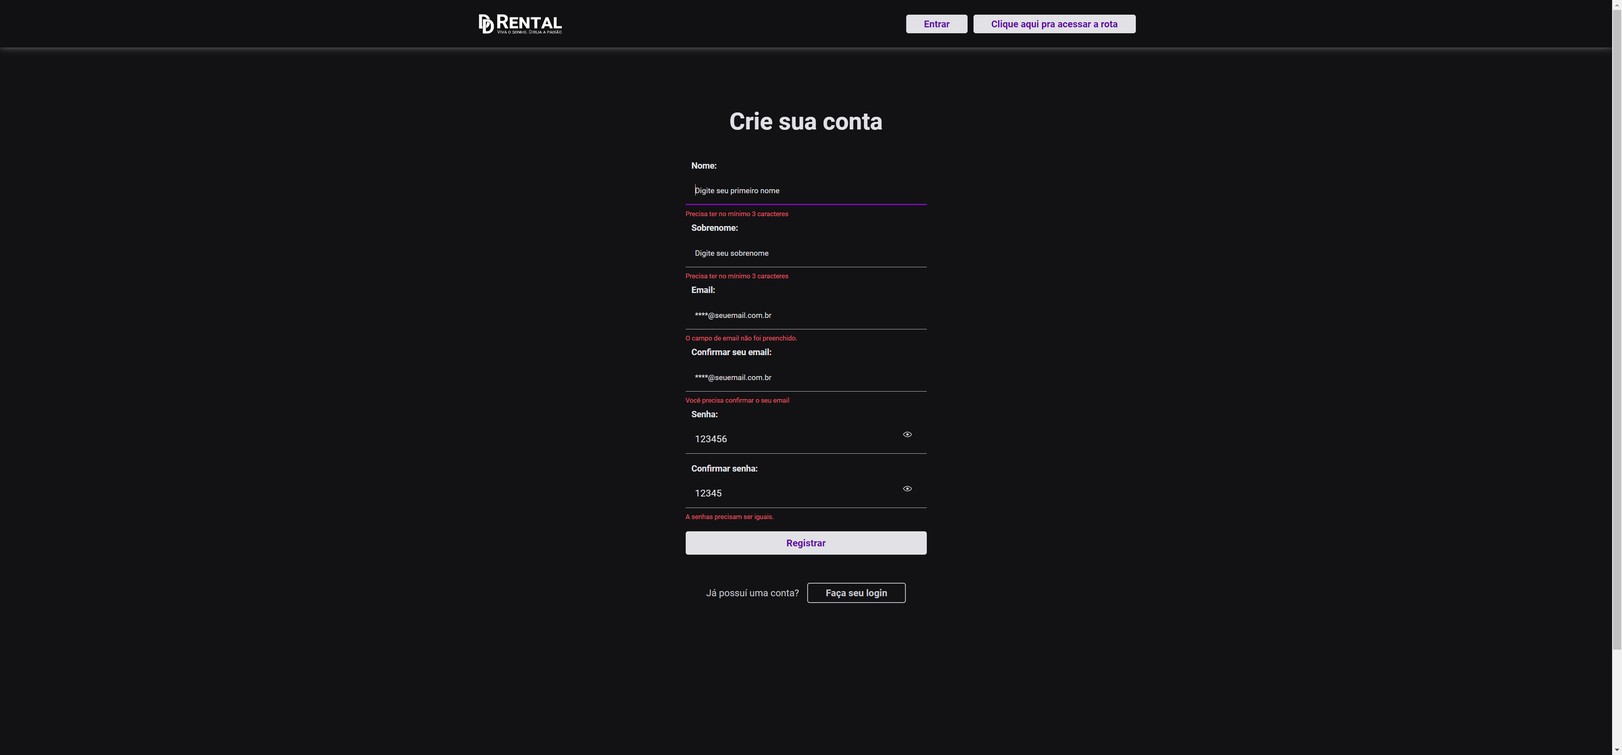
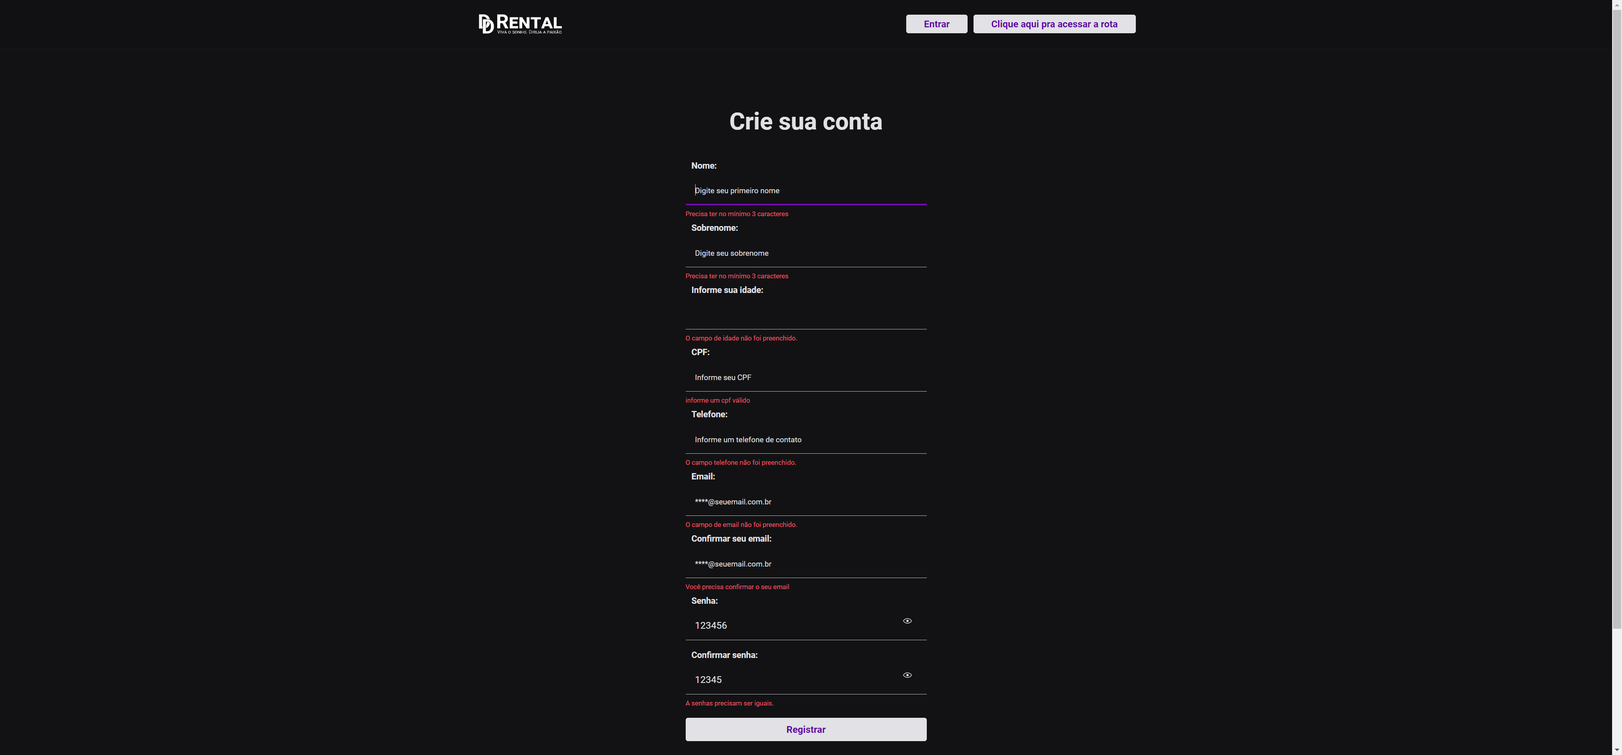
feature: testes reavaliados (regressão) devido a novos campos em algumas telas

diff --git a/report.html b/report.html
@@ -7,7 +7,7 @@
   </head>
   <body>
     <h1 id="title">report.html</h1>
-    <p>Report generated on 06-Dec-2023 at 12:28:50 by <a href="https://pypi.python.org/pypi/pytest-html">pytest-html</a>
+    <p>Report generated on 10-Dec-2023 at 22:03:54 by <a href="https://pypi.python.org/pypi/pytest-html">pytest-html</a>
         v4.1.1</p>
     <div id="environment-header">
       <h2>Environment</h2>
@@ -61,7 +61,7 @@
         <h2>Summary</h2>
         <div class="additional-summary prefix">
         </div>
-        <p class="run-count">4 tests took 00:00:13.</p>
+        <p class="run-count">17 tests took 00:01:35.</p>
         <p class="filter">(Un)check the boxes to filter the results.</p>
         <div class="summary__reload">
           <div class="summary__reload__button hidden" onclick="location.reload()">
@@ -74,7 +74,7 @@
             <input checked="true" class="filter" name="filter_checkbox" type="checkbox" data-test-result="failed" disabled/>
             <span class="failed">0 Failed,</span>
             <input checked="true" class="filter" name="filter_checkbox" type="checkbox" data-test-result="passed" />
-            <span class="passed">4 Passed,</span>
+            <span class="passed">17 Passed,</span>
             <input checked="true" class="filter" name="filter_checkbox" type="checkbox" data-test-result="skipped" disabled/>
             <span class="skipped">0 Skipped,</span>
             <input checked="true" class="filter" name="filter_checkbox" type="checkbox" data-test-result="xfailed" disabled/>
@@ -108,7 +108,7 @@
     </table>
   </body>
   <footer>
-    <div id="data-container" data-jsonblob="{&#34;environment&#34;: {&#34;Python&#34;: &#34;3.11.4&#34;, &#34;Platform&#34;: &#34;Windows-10-10.0.19045-SP0&#34;, &#34;Packages&#34;: {&#34;pytest&#34;: &#34;7.4.3&#34;, &#34;pluggy&#34;: &#34;1.3.0&#34;}, &#34;Plugins&#34;: {&#34;html&#34;: &#34;4.1.1&#34;, &#34;metadata&#34;: &#34;3.0.0&#34;}}, &#34;tests&#34;: {&#34;site/tests/test_navbar.py::TestNavBar::test_NavBar_Logo&#34;: [{&#34;extras&#34;: [], &#34;result&#34;: &#34;Passed&#34;, &#34;testId&#34;: &#34;site/tests/test_navbar.py::TestNavBar::test_NavBar_Logo&#34;, &#34;duration&#34;: &#34;00:00:01&#34;, &#34;resultsTableRow&#34;: [&#34;&lt;td class=\&#34;col-result\&#34;&gt;Passed&lt;/td&gt;&#34;, &#34;&lt;td class=\&#34;col-testId\&#34;&gt;site/tests/test_navbar.py::TestNavBar::test_NavBar_Logo&lt;/td&gt;&#34;, &#34;&lt;td class=\&#34;col-duration\&#34;&gt;00:00:01&lt;/td&gt;&#34;, &#34;&lt;td class=\&#34;col-links\&#34;&gt;&lt;/td&gt;&#34;], &#34;log&#34;: &#34;----------------------------- Captured stdout call -----------------------------\nTipo de objeto: image\nCaminho da imagem:  http://localhost:5173/src/assets/DDRental.png\n&#34;}], &#34;site/tests/test_navbar.py::TestNavBar::test_NavBar_Btn_signup&#34;: [{&#34;extras&#34;: [], &#34;result&#34;: &#34;Passed&#34;, &#34;testId&#34;: &#34;site/tests/test_navbar.py::TestNavBar::test_NavBar_Btn_signup&#34;, &#34;duration&#34;: &#34;00:00:04&#34;, &#34;resultsTableRow&#34;: [&#34;&lt;td class=\&#34;col-result\&#34;&gt;Passed&lt;/td&gt;&#34;, &#34;&lt;td class=\&#34;col-testId\&#34;&gt;site/tests/test_navbar.py::TestNavBar::test_NavBar_Btn_signup&lt;/td&gt;&#34;, &#34;&lt;td class=\&#34;col-duration\&#34;&gt;00:00:04&lt;/td&gt;&#34;, &#34;&lt;td class=\&#34;col-links\&#34;&gt;&lt;/td&gt;&#34;], &#34;log&#34;: &#34;----------------------------- Captured stdout call -----------------------------\nDestino esperado: http://localhost:5173/signup\nDestino encontrado: http://localhost:5173/signup\n&#34;}], &#34;site/tests/test_navbar.py::TestNavBar::test_NavBar_Btn_signin&#34;: [{&#34;extras&#34;: [], &#34;result&#34;: &#34;Passed&#34;, &#34;testId&#34;: &#34;site/tests/test_navbar.py::TestNavBar::test_NavBar_Btn_signin&#34;, &#34;duration&#34;: &#34;00:00:04&#34;, &#34;resultsTableRow&#34;: [&#34;&lt;td class=\&#34;col-result\&#34;&gt;Passed&lt;/td&gt;&#34;, &#34;&lt;td class=\&#34;col-testId\&#34;&gt;site/tests/test_navbar.py::TestNavBar::test_NavBar_Btn_signin&lt;/td&gt;&#34;, &#34;&lt;td class=\&#34;col-duration\&#34;&gt;00:00:04&lt;/td&gt;&#34;, &#34;&lt;td class=\&#34;col-links\&#34;&gt;&lt;/td&gt;&#34;], &#34;log&#34;: &#34;----------------------------- Captured stdout call -----------------------------\nDestino esperado: http://localhost:5173/signin\nDestino encontrado: http://localhost:5173/signin\n&#34;}], &#34;site/tests/test_navbar.py::TestNavBar::test_NavBarBtnAcessRoute&#34;: [{&#34;extras&#34;: [], &#34;result&#34;: &#34;Passed&#34;, &#34;testId&#34;: &#34;site/tests/test_navbar.py::TestNavBar::test_NavBarBtnAcessRoute&#34;, &#34;duration&#34;: &#34;00:00:04&#34;, &#34;resultsTableRow&#34;: [&#34;&lt;td class=\&#34;col-result\&#34;&gt;Passed&lt;/td&gt;&#34;, &#34;&lt;td class=\&#34;col-testId\&#34;&gt;site/tests/test_navbar.py::TestNavBar::test_NavBarBtnAcessRoute&lt;/td&gt;&#34;, &#34;&lt;td class=\&#34;col-duration\&#34;&gt;00:00:04&lt;/td&gt;&#34;, &#34;&lt;td class=\&#34;col-links\&#34;&gt;&lt;/td&gt;&#34;], &#34;log&#34;: &#34;----------------------------- Captured stdout call -----------------------------\nNome do bot\u00e3o: Clique aqui pra acessar a rota\nDestino esperado: http://localhost:5173/produto/123123\nDestino encontrado: http://localhost:5173/produto/123123\n&#34;}]}, &#34;renderCollapsed&#34;: [&#34;passed&#34;], &#34;initialSort&#34;: &#34;result&#34;, &#34;title&#34;: &#34;report.html&#34;}"></div>
+    <div id="data-container" data-jsonblob="{&#34;environment&#34;: {&#34;Python&#34;: &#34;3.11.4&#34;, &#34;Platform&#34;: &#34;Windows-10-10.0.22631-SP0&#34;, &#34;Packages&#34;: {&#34;pytest&#34;: &#34;7.4.3&#34;, &#34;pluggy&#34;: &#34;1.3.0&#34;}, &#34;Plugins&#34;: {&#34;html&#34;: &#34;4.1.1&#34;, &#34;metadata&#34;: &#34;3.0.0&#34;}}, &#34;tests&#34;: {&#34;site/tests/test_footer.py::TestFooter_Copyright::test_footerCopyRightText&#34;: [{&#34;extras&#34;: [], &#34;result&#34;: &#34;Passed&#34;, &#34;testId&#34;: &#34;site/tests/test_footer.py::TestFooter_Copyright::test_footerCopyRightText&#34;, &#34;duration&#34;: &#34;782 ms&#34;, &#34;resultsTableRow&#34;: [&#34;&lt;td class=\&#34;col-result\&#34;&gt;Passed&lt;/td&gt;&#34;, &#34;&lt;td class=\&#34;col-testId\&#34;&gt;site/tests/test_footer.py::TestFooter_Copyright::test_footerCopyRightText&lt;/td&gt;&#34;, &#34;&lt;td class=\&#34;col-duration\&#34;&gt;782 ms&lt;/td&gt;&#34;, &#34;&lt;td class=\&#34;col-links\&#34;&gt;&lt;/td&gt;&#34;], &#34;log&#34;: &#34;----------------------------- Captured stdout call -----------------------------\nEsperado: \u00a92023 Direitos reservados dhrentcar.com.br\nEncontrado: \u00a92023 Direitos reservados dhrentcar.com.br\n&#34;}], &#34;site/tests/test_footer.py::TestFooterSocialMedia::test_footerSocialMedia_Facebook&#34;: [{&#34;extras&#34;: [], &#34;result&#34;: &#34;Passed&#34;, &#34;testId&#34;: &#34;site/tests/test_footer.py::TestFooterSocialMedia::test_footerSocialMedia_Facebook&#34;, &#34;duration&#34;: &#34;00:00:03&#34;, &#34;resultsTableRow&#34;: [&#34;&lt;td class=\&#34;col-result\&#34;&gt;Passed&lt;/td&gt;&#34;, &#34;&lt;td class=\&#34;col-testId\&#34;&gt;site/tests/test_footer.py::TestFooterSocialMedia::test_footerSocialMedia_Facebook&lt;/td&gt;&#34;, &#34;&lt;td class=\&#34;col-duration\&#34;&gt;00:00:03&lt;/td&gt;&#34;, &#34;&lt;td class=\&#34;col-links\&#34;&gt;&lt;/td&gt;&#34;], &#34;log&#34;: &#34;----------------------------- Captured stdout call -----------------------------\nVerifique o screenshot &amp;#x27;screen_Facebook_Btn_Click.png&amp;#x27;\n&#34;}], &#34;site/tests/test_footer.py::TestFooterSocialMedia::test_footerSocialMedia_Linkedin&#34;: [{&#34;extras&#34;: [], &#34;result&#34;: &#34;Passed&#34;, &#34;testId&#34;: &#34;site/tests/test_footer.py::TestFooterSocialMedia::test_footerSocialMedia_Linkedin&#34;, &#34;duration&#34;: &#34;00:00:04&#34;, &#34;resultsTableRow&#34;: [&#34;&lt;td class=\&#34;col-result\&#34;&gt;Passed&lt;/td&gt;&#34;, &#34;&lt;td class=\&#34;col-testId\&#34;&gt;site/tests/test_footer.py::TestFooterSocialMedia::test_footerSocialMedia_Linkedin&lt;/td&gt;&#34;, &#34;&lt;td class=\&#34;col-duration\&#34;&gt;00:00:04&lt;/td&gt;&#34;, &#34;&lt;td class=\&#34;col-links\&#34;&gt;&lt;/td&gt;&#34;], &#34;log&#34;: &#34;----------------------------- Captured stdout call -----------------------------\nVerifique o screenshot &amp;#x27;screen_Linkedin_Btn_Click.png&amp;#x27;\n&#34;}], &#34;site/tests/test_footer.py::TestFooterSocialMedia::test_footerSocialMedia_Instagram&#34;: [{&#34;extras&#34;: [], &#34;result&#34;: &#34;Passed&#34;, &#34;testId&#34;: &#34;site/tests/test_footer.py::TestFooterSocialMedia::test_footerSocialMedia_Instagram&#34;, &#34;duration&#34;: &#34;00:00:04&#34;, &#34;resultsTableRow&#34;: [&#34;&lt;td class=\&#34;col-result\&#34;&gt;Passed&lt;/td&gt;&#34;, &#34;&lt;td class=\&#34;col-testId\&#34;&gt;site/tests/test_footer.py::TestFooterSocialMedia::test_footerSocialMedia_Instagram&lt;/td&gt;&#34;, &#34;&lt;td class=\&#34;col-duration\&#34;&gt;00:00:04&lt;/td&gt;&#34;, &#34;&lt;td class=\&#34;col-links\&#34;&gt;&lt;/td&gt;&#34;], &#34;log&#34;: &#34;----------------------------- Captured stdout call -----------------------------\nVerifique o screenshot &amp;#x27;screen_Instagram_Btn_Click.png&amp;#x27;\n&#34;}], &#34;site/tests/test_footer.py::TestFooterSocialMedia::test_footerSocialMedia_Twitter&#34;: [{&#34;extras&#34;: [], &#34;result&#34;: &#34;Passed&#34;, &#34;testId&#34;: &#34;site/tests/test_footer.py::TestFooterSocialMedia::test_footerSocialMedia_Twitter&#34;, &#34;duration&#34;: &#34;00:00:03&#34;, &#34;resultsTableRow&#34;: [&#34;&lt;td class=\&#34;col-result\&#34;&gt;Passed&lt;/td&gt;&#34;, &#34;&lt;td class=\&#34;col-testId\&#34;&gt;site/tests/test_footer.py::TestFooterSocialMedia::test_footerSocialMedia_Twitter&lt;/td&gt;&#34;, &#34;&lt;td class=\&#34;col-duration\&#34;&gt;00:00:03&lt;/td&gt;&#34;, &#34;&lt;td class=\&#34;col-links\&#34;&gt;&lt;/td&gt;&#34;], &#34;log&#34;: &#34;----------------------------- Captured stdout call -----------------------------\nVerifique o screenshot &amp;#x27;screen_Twitter_Btn_Click.png&amp;#x27;\n&#34;}], &#34;site/tests/test_login.py::TestLogin::test_login_button_view_password&#34;: [{&#34;extras&#34;: [], &#34;result&#34;: &#34;Passed&#34;, &#34;testId&#34;: &#34;site/tests/test_login.py::TestLogin::test_login_button_view_password&#34;, &#34;duration&#34;: &#34;00:00:04&#34;, &#34;resultsTableRow&#34;: [&#34;&lt;td class=\&#34;col-result\&#34;&gt;Passed&lt;/td&gt;&#34;, &#34;&lt;td class=\&#34;col-testId\&#34;&gt;site/tests/test_login.py::TestLogin::test_login_button_view_password&lt;/td&gt;&#34;, &#34;&lt;td class=\&#34;col-duration\&#34;&gt;00:00:04&lt;/td&gt;&#34;, &#34;&lt;td class=\&#34;col-links\&#34;&gt;&lt;/td&gt;&#34;], &#34;log&#34;: &#34;----------------------------- Captured stdout call -----------------------------\nVerifique o screenshot &amp;#x27;screen_view_password.png&amp;#x27;\n&#34;}], &#34;site/tests/test_login.py::TestLogin::test_login_success&#34;: [{&#34;extras&#34;: [], &#34;result&#34;: &#34;Passed&#34;, &#34;testId&#34;: &#34;site/tests/test_login.py::TestLogin::test_login_success&#34;, &#34;duration&#34;: &#34;00:00:07&#34;, &#34;resultsTableRow&#34;: [&#34;&lt;td class=\&#34;col-result\&#34;&gt;Passed&lt;/td&gt;&#34;, &#34;&lt;td class=\&#34;col-testId\&#34;&gt;site/tests/test_login.py::TestLogin::test_login_success&lt;/td&gt;&#34;, &#34;&lt;td class=\&#34;col-duration\&#34;&gt;00:00:07&lt;/td&gt;&#34;, &#34;&lt;td class=\&#34;col-links\&#34;&gt;&lt;/td&gt;&#34;], &#34;log&#34;: &#34;----------------------------- Captured stdout call -----------------------------\npagina atual : http://localhost:5173/signin\ntitulo do formul\u00e1rio : Inicie sua sess\u00e3o\nBot\u00e3o Cadastre-se : Cadastre-se\n&#34;}], &#34;site/tests/test_login.py::TestLogin::test_login_fail_invalid_email&#34;: [{&#34;extras&#34;: [], &#34;result&#34;: &#34;Passed&#34;, &#34;testId&#34;: &#34;site/tests/test_login.py::TestLogin::test_login_fail_invalid_email&#34;, &#34;duration&#34;: &#34;00:00:07&#34;, &#34;resultsTableRow&#34;: [&#34;&lt;td class=\&#34;col-result\&#34;&gt;Passed&lt;/td&gt;&#34;, &#34;&lt;td class=\&#34;col-testId\&#34;&gt;site/tests/test_login.py::TestLogin::test_login_fail_invalid_email&lt;/td&gt;&#34;, &#34;&lt;td class=\&#34;col-duration\&#34;&gt;00:00:07&lt;/td&gt;&#34;, &#34;&lt;td class=\&#34;col-links\&#34;&gt;&lt;/td&gt;&#34;], &#34;log&#34;: &#34;----------------------------- Captured stdout call -----------------------------\nEmail invalido digitado: \u00c9 necess\u00e1rio um email v\u00e1lido\n&#34;}], &#34;site/tests/test_login.py::TestLogin::test_login_fail_blank_email&#34;: [{&#34;extras&#34;: [], &#34;result&#34;: &#34;Passed&#34;, &#34;testId&#34;: &#34;site/tests/test_login.py::TestLogin::test_login_fail_blank_email&#34;, &#34;duration&#34;: &#34;00:00:07&#34;, &#34;resultsTableRow&#34;: [&#34;&lt;td class=\&#34;col-result\&#34;&gt;Passed&lt;/td&gt;&#34;, &#34;&lt;td class=\&#34;col-testId\&#34;&gt;site/tests/test_login.py::TestLogin::test_login_fail_blank_email&lt;/td&gt;&#34;, &#34;&lt;td class=\&#34;col-duration\&#34;&gt;00:00:07&lt;/td&gt;&#34;, &#34;&lt;td class=\&#34;col-links\&#34;&gt;&lt;/td&gt;&#34;], &#34;log&#34;: &#34;----------------------------- Captured stdout call -----------------------------\nCampo Email em branco: O campo de email n\u00e3o foi preenchido.\n&#34;}], &#34;site/tests/test_login.py::TestLogin::test_login_fail_invalid_password&#34;: [{&#34;extras&#34;: [], &#34;result&#34;: &#34;Passed&#34;, &#34;testId&#34;: &#34;site/tests/test_login.py::TestLogin::test_login_fail_invalid_password&#34;, &#34;duration&#34;: &#34;00:00:08&#34;, &#34;resultsTableRow&#34;: [&#34;&lt;td class=\&#34;col-result\&#34;&gt;Passed&lt;/td&gt;&#34;, &#34;&lt;td class=\&#34;col-testId\&#34;&gt;site/tests/test_login.py::TestLogin::test_login_fail_invalid_password&lt;/td&gt;&#34;, &#34;&lt;td class=\&#34;col-duration\&#34;&gt;00:00:08&lt;/td&gt;&#34;, &#34;&lt;td class=\&#34;col-links\&#34;&gt;&lt;/td&gt;&#34;], &#34;log&#34;: &#34;----------------------------- Captured stdout call -----------------------------\nPassword inv\u00e1lido: A senha deve conter no m\u00ednimo 6 caracteres.\nSenha digitada: 12345\n&#34;}], &#34;site/tests/test_navbar.py::TestNavBar::test_NavBar_Logo&#34;: [{&#34;extras&#34;: [], &#34;result&#34;: &#34;Passed&#34;, &#34;testId&#34;: &#34;site/tests/test_navbar.py::TestNavBar::test_NavBar_Logo&#34;, &#34;duration&#34;: &#34;426 ms&#34;, &#34;resultsTableRow&#34;: [&#34;&lt;td class=\&#34;col-result\&#34;&gt;Passed&lt;/td&gt;&#34;, &#34;&lt;td class=\&#34;col-testId\&#34;&gt;site/tests/test_navbar.py::TestNavBar::test_NavBar_Logo&lt;/td&gt;&#34;, &#34;&lt;td class=\&#34;col-duration\&#34;&gt;426 ms&lt;/td&gt;&#34;, &#34;&lt;td class=\&#34;col-links\&#34;&gt;&lt;/td&gt;&#34;], &#34;log&#34;: &#34;----------------------------- Captured stdout call -----------------------------\nTipo de objeto: image\nCaminho da imagem:  http://localhost:5173/src/assets/DDRental.png\n&#34;}], &#34;site/tests/test_navbar.py::TestNavBar::test_NavBar_Btn_signup&#34;: [{&#34;extras&#34;: [], &#34;result&#34;: &#34;Passed&#34;, &#34;testId&#34;: &#34;site/tests/test_navbar.py::TestNavBar::test_NavBar_Btn_signup&#34;, &#34;duration&#34;: &#34;00:00:03&#34;, &#34;resultsTableRow&#34;: [&#34;&lt;td class=\&#34;col-result\&#34;&gt;Passed&lt;/td&gt;&#34;, &#34;&lt;td class=\&#34;col-testId\&#34;&gt;site/tests/test_navbar.py::TestNavBar::test_NavBar_Btn_signup&lt;/td&gt;&#34;, &#34;&lt;td class=\&#34;col-duration\&#34;&gt;00:00:03&lt;/td&gt;&#34;, &#34;&lt;td class=\&#34;col-links\&#34;&gt;&lt;/td&gt;&#34;], &#34;log&#34;: &#34;----------------------------- Captured stdout call -----------------------------\nDestino esperado: http://localhost:5173/signup\nDestino encontrado: http://localhost:5173/signup\n&#34;}], &#34;site/tests/test_navbar.py::TestNavBar::test_NavBar_Btn_signin&#34;: [{&#34;extras&#34;: [], &#34;result&#34;: &#34;Passed&#34;, &#34;testId&#34;: &#34;site/tests/test_navbar.py::TestNavBar::test_NavBar_Btn_signin&#34;, &#34;duration&#34;: &#34;00:00:03&#34;, &#34;resultsTableRow&#34;: [&#34;&lt;td class=\&#34;col-result\&#34;&gt;Passed&lt;/td&gt;&#34;, &#34;&lt;td class=\&#34;col-testId\&#34;&gt;site/tests/test_navbar.py::TestNavBar::test_NavBar_Btn_signin&lt;/td&gt;&#34;, &#34;&lt;td class=\&#34;col-duration\&#34;&gt;00:00:03&lt;/td&gt;&#34;, &#34;&lt;td class=\&#34;col-links\&#34;&gt;&lt;/td&gt;&#34;], &#34;log&#34;: &#34;----------------------------- Captured stdout call -----------------------------\nDestino esperado: http://localhost:5173/signin\nDestino encontrado: http://localhost:5173/signin\n&#34;}], &#34;site/tests/test_navbar.py::TestNavBar::test_NavBarBtnAcessRoute&#34;: [{&#34;extras&#34;: [], &#34;result&#34;: &#34;Passed&#34;, &#34;testId&#34;: &#34;site/tests/test_navbar.py::TestNavBar::test_NavBarBtnAcessRoute&#34;, &#34;duration&#34;: &#34;00:00:04&#34;, &#34;resultsTableRow&#34;: [&#34;&lt;td class=\&#34;col-result\&#34;&gt;Passed&lt;/td&gt;&#34;, &#34;&lt;td class=\&#34;col-testId\&#34;&gt;site/tests/test_navbar.py::TestNavBar::test_NavBarBtnAcessRoute&lt;/td&gt;&#34;, &#34;&lt;td class=\&#34;col-duration\&#34;&gt;00:00:04&lt;/td&gt;&#34;, &#34;&lt;td class=\&#34;col-links\&#34;&gt;&lt;/td&gt;&#34;], &#34;log&#34;: &#34;----------------------------- Captured stdout call -----------------------------\nNome do bot\u00e3o: Clique aqui pra acessar a rota\nDestino esperado: http://localhost:5173/produto/123123\nDestino encontrado: http://localhost:5173/produto/123123\n&#34;}], &#34;site/tests/test_signup.py::TestSignUp::test_signup_buttons&#34;: [{&#34;extras&#34;: [], &#34;result&#34;: &#34;Passed&#34;, &#34;testId&#34;: &#34;site/tests/test_signup.py::TestSignUp::test_signup_buttons&#34;, &#34;duration&#34;: &#34;00:00:19&#34;, &#34;resultsTableRow&#34;: [&#34;&lt;td class=\&#34;col-result\&#34;&gt;Passed&lt;/td&gt;&#34;, &#34;&lt;td class=\&#34;col-testId\&#34;&gt;site/tests/test_signup.py::TestSignUp::test_signup_buttons&lt;/td&gt;&#34;, &#34;&lt;td class=\&#34;col-duration\&#34;&gt;00:00:19&lt;/td&gt;&#34;, &#34;&lt;td class=\&#34;col-links\&#34;&gt;&lt;/td&gt;&#34;], &#34;log&#34;: &#34;----------------------------- Captured stdout call -----------------------------\n01 - Entrou na p\u00e1gina home \u2714\ufe0f\n02 - Clicou no bot\u00e3o Cadastrar da p\u00e1gina home \u2714\ufe0f\n03 - Clicou na logo home da p\u00e1gina Cadastrar \u2714\ufe0f\n04 - Clicou no bot\u00e3o Cadastrar da p\u00e1gina home \u2714\ufe0f\n05 - Voltou para a p\u00e1gina de cadastro \u2714\ufe0f\n06 - Clicou no bot\u00e3o Entrar da p\u00e1gina Cadastrar \u2714\ufe0f\n07 - Voltou para a p\u00e1gina de cadastro \u2714\ufe0f\n08 - Clicou no bot\u00e3o Acessar Rota \u2714\ufe0f\n09 - Clicou no bot\u00e3o Cadastrar dentro da p\u00e1gina de rota \u2714\ufe0f\n10 - Clicou no bot\u00e3o Registrar \u2714\ufe0f\n11 - Clicou no bot\u00e3o Fa\u00e7a seu login \u2714\ufe0f\n12 - Clicou na logo para a p\u00e1gina home \u2714\ufe0f\n13 - Clicou no bot\u00e3o Cadastrar \u2714\ufe0f\n14 - Verifique a imagem: screen_views_signup_password.png\n18 - Fim do teste dos bot\u00f5es da pagina de cadastro! \u2714\ufe0f\n&#34;}], &#34;site/tests/test_signup.py::TestSignUp::test_signup_errors_all_blank&#34;: [{&#34;extras&#34;: [], &#34;result&#34;: &#34;Passed&#34;, &#34;testId&#34;: &#34;site/tests/test_signup.py::TestSignUp::test_signup_errors_all_blank&#34;, &#34;duration&#34;: &#34;00:00:11&#34;, &#34;resultsTableRow&#34;: [&#34;&lt;td class=\&#34;col-result\&#34;&gt;Passed&lt;/td&gt;&#34;, &#34;&lt;td class=\&#34;col-testId\&#34;&gt;site/tests/test_signup.py::TestSignUp::test_signup_errors_all_blank&lt;/td&gt;&#34;, &#34;&lt;td class=\&#34;col-duration\&#34;&gt;00:00:11&lt;/td&gt;&#34;, &#34;&lt;td class=\&#34;col-links\&#34;&gt;&lt;/td&gt;&#34;], &#34;log&#34;: &#34;----------------------------- Captured stdout call -----------------------------\n01 - Entrou na p\u00e1gina home \u2714\ufe0f\n02 - Clicou no bot\u00e3o Cadastrar da p\u00e1gina home \u2714\ufe0f\n03 - Clicou no bot\u00e3o Registrar da p\u00e1gina de cadastro sem preencher nada \u2714\ufe0f\nNome n\u00e3o preenchido ou com menos de 3 caracteres\nmsg:  Precisa ter no m\u00ednimo 3 caracteres\nSobrenome n\u00e3o preenchido ou com menos de 3 caracteres\nmsg:  Precisa ter no m\u00ednimo 3 caracteres\nIdade n\u00e3o preenchido\nmsg:  O campo de idade n\u00e3o foi preenchido.\nCPF n\u00e3o preenchido\nmsg:  informe um cpf v\u00e1lido\nTelefone n\u00e3o preenchido\nmsg:  O campo telefone n\u00e3o foi preenchido.\nEmail n\u00e3o preenchido\nmsg:  O campo de email n\u00e3o foi preenchido.\nEmail n\u00e3o confirmado\nmsg:  Voc\u00ea precisa confirmar o seu email\nSenha em branco ou com menos de 6 caracteres\nmsg:  A senha deve conter no m\u00ednimo 6 caracteres.\nConfirma\u00e7\u00e3o da senha est\u00e1 em branco\nmsg:  Voc\u00ea precisa confirmar a sua senha\n&#34;}], &#34;site/tests/test_signup_specific_errors.py::TestSignUpSpecificErrors::test_signup_fail_invalid_email&#34;: [{&#34;extras&#34;: [], &#34;result&#34;: &#34;Passed&#34;, &#34;testId&#34;: &#34;site/tests/test_signup_specific_errors.py::TestSignUpSpecificErrors::test_signup_fail_invalid_email&#34;, &#34;duration&#34;: &#34;00:00:08&#34;, &#34;resultsTableRow&#34;: [&#34;&lt;td class=\&#34;col-result\&#34;&gt;Passed&lt;/td&gt;&#34;, &#34;&lt;td class=\&#34;col-testId\&#34;&gt;site/tests/test_signup_specific_errors.py::TestSignUpSpecificErrors::test_signup_fail_invalid_email&lt;/td&gt;&#34;, &#34;&lt;td class=\&#34;col-duration\&#34;&gt;00:00:08&lt;/td&gt;&#34;, &#34;&lt;td class=\&#34;col-links\&#34;&gt;&lt;/td&gt;&#34;], &#34;log&#34;: &#34;----------------------------- Captured stdout call -----------------------------\nEmail v\u00e1lido digitado:  admim@\nEmail digitado corretamente\n&#34;}]}, &#34;renderCollapsed&#34;: [&#34;passed&#34;], &#34;initialSort&#34;: &#34;result&#34;, &#34;title&#34;: &#34;report.html&#34;}"></div>
     <script>
       (function(){function r(e,n,t){function o(i,f){if(!n[i]){if(!e[i]){var c="function"==typeof require&&require;if(!f&&c)return c(i,!0);if(u)return u(i,!0);var a=new Error("Cannot find module '"+i+"'");throw a.code="MODULE_NOT_FOUND",a}var p=n[i]={exports:{}};e[i][0].call(p.exports,function(r){var n=e[i][1][r];return o(n||r)},p,p.exports,r,e,n,t)}return n[i].exports}for(var u="function"==typeof require&&require,i=0;i<t.length;i++)o(t[i]);return o}return r})()({1:[function(require,module,exports){
 const { getCollapsedCategory, setCollapsedIds } = require('./storage.js')

diff --git a/site/tests/test_signup.py b/site/tests/test_signup.py
@@ -24,8 +24,8 @@ class TestSignUp:
         btnAcessarRota.click()
         print('08 - Clicou no botão Acessar Rota ✔')  
         sign_up()
-        print('09 - Voltou para a página de cadastro ✔')  
-        btnRegister = driver.find_element(By.CSS_SELECTOR, '#root > div.sc-dItHI.XePOD > main > form > button')
+        print('09 - Clicou no botão Cadastrar dentro da página de rota ✔')  
+        btnRegister = driver.find_element(By.XPATH, '//*[@id="root"]/div[1]/main/form/button')
         btnRegister.click()
         print('10 - Clicou no botão Registrar ✔')
         btnDoYourLogin = driver.find_element(By.XPATH, '//*[@id="root"]/div[1]/main/p/button')
@@ -38,15 +38,15 @@ class TestSignUp:
         
         inputPassword = driver.find_element(By.XPATH, '//*[@id="root"]/div[1]/main/form/div[1]/input') 
         inputPassword.send_keys('123456')
-        btnViewPassword = driver.find_element(By.CSS_SELECTOR, '#root > div.sc-dItHI.XePOD > main > form > div:nth-child(14) > svg')
+        btnViewPassword = driver.find_element(By.CSS_SELECTOR, '#root > div.sc-bkbjWr.ccgmEz > main > form > div:nth-child(23) > svg')
         btnViewPassword.click()
         
         inputConfirmPassword = driver.find_element(By.XPATH, '//*[@id="root"]/div[1]/main/form/div[2]/input')
         inputConfirmPassword.send_keys('12345')
-        btnViewConfirmPassword = driver.find_element(By.CSS_SELECTOR, '#root > div.sc-dItHI.XePOD > main > form > div:nth-child(17) > svg')
+        btnViewConfirmPassword = driver.find_element(By.CSS_SELECTOR, '#root > div.sc-bkbjWr.ccgmEz > main > form > div:nth-child(26) > svg')
         btnViewConfirmPassword.click()
         
-        btnRegister = driver.find_element(By.CSS_SELECTOR, '#root > div.sc-dItHI.XePOD > main > form > button')
+        btnRegister = driver.find_element(By.XPATH, '//*[@id="root"]/div[1]/main/form/button')
         btnRegister.click()
         
         driver.save_screenshot('screen_views_signup_password.png') 
@@ -60,7 +60,7 @@ class TestSignUp:
         print('01 - Entrou na página home ✔')
         sign_up()
         print('02 - Clicou no botão Cadastrar da página home ✔')
-        btnRegister = driver.find_element(By.CSS_SELECTOR, '#root > div.sc-dItHI.XePOD > main > form > button')
+        btnRegister = driver.find_element(By.XPATH, '//*[@id="root"]/div[1]/main/form/button')
         btnRegister.click()
         print('03 - Clicou no botão Registrar da página de cadastro sem preencher nada ✔')
         time.sleep(5)
@@ -75,22 +75,37 @@ class TestSignUp:
         print('Sobrenome não preenchido ou com menos de 3 caracteres')
         print('msg: ', blankErrorSurName.text)
         
-        blankErrorEmail = driver.find_element(By.XPATH, '//*[@id="root"]/div[1]/main/form/p[3]')
+        blankErrorAge = driver.find_element(By.XPATH, '//*[@id="root"]/div[1]/main/form/p[3]')
+        assert blankErrorAge.text == 'O campo de idade não foi preenchido.'
+        print('Idade não preenchido')
+        print('msg: ', blankErrorAge.text)
+
+        blankErrorCPF = driver.find_element(By.XPATH, '//*[@id="root"]/div[1]/main/form/p[4]')
+        assert blankErrorCPF.text == 'informe um cpf válido'
+        print('CPF não preenchido')
+        print('msg: ', blankErrorCPF.text)
+
+        blankErrorPhone = driver.find_element(By.XPATH, '//*[@id="root"]/div[1]/main/form/p[5]')
+        assert blankErrorPhone.text == 'O campo telefone não foi preenchido.'
+        print('Telefone não preenchido')
+        print('msg: ', blankErrorPhone.text)
+        
+        blankErrorEmail = driver.find_element(By.XPATH, '//*[@id="root"]/div[1]/main/form/p[6]')
         assert blankErrorEmail.text == 'O campo de email não foi preenchido.'
         print('Email não preenchido')
         print('msg: ', blankErrorEmail.text)
         
-        blankErrorConfirmEmail = driver.find_element(By.XPATH, '//*[@id="root"]/div[1]/main/form/p[4]')
+        blankErrorConfirmEmail = driver.find_element(By.XPATH, '//*[@id="root"]/div[1]/main/form/p[7]')
         assert blankErrorConfirmEmail.text == 'Você precisa confirmar o seu email'
         print('Email não confirmado')
         print('msg: ', blankErrorConfirmEmail.text)
         
-        blankErrorPasword = driver.find_element(By.XPATH,'//*[@id="root"]/div[1]/main/form/p[5]')
+        blankErrorPasword = driver.find_element(By.XPATH,'//*[@id="root"]/div[1]/main/form/p[8]')
         assert blankErrorPasword.text == 'A senha deve conter no mínimo 6 caracteres.'
         print('Senha em branco ou com menos de 6 caracteres')
         print('msg: ', blankErrorPasword.text)
         
-        blankErrorConfirmPasword = driver.find_element(By.XPATH, '//*[@id="root"]/div[1]/main/form/p[6]')
+        blankErrorConfirmPasword = driver.find_element(By.XPATH, '//*[@id="root"]/div[1]/main/form/p[9]')
         assert blankErrorConfirmPasword.text == 'Você precisa confirmar a sua senha'
         print('Confirmação da senha está em branco')
         print('msg: ', blankErrorConfirmPasword.text)    

diff --git a/site/tests/test_footer.py b/site/tests/test_footer.py
@@ -16,7 +16,7 @@ class TestFooterSocialMedia:
     
     def test_footerSocialMedia_Facebook(self):
         open_home()
-        Facebook = driver.find_element(By.CSS_SELECTOR,'#root > nav.sc-bqGGcD.bhqxOK > main > div > button:nth-child(1) > svg')
+        Facebook = driver.find_element(By.CSS_SELECTOR,'#root > nav.sc-dItHI.fhchdd > main > div > button:nth-child(1) > svg')
         Facebook.screenshot
         Facebook.click()
         time.sleep(2)
@@ -25,7 +25,7 @@ class TestFooterSocialMedia:
 
     def test_footerSocialMedia_Linkedin(self):
         open_home()
-        Linkedin = driver.find_element(By.CSS_SELECTOR,'#root > nav.sc-bqGGcD.bhqxOK > main > div > button:nth-child(2) > svg')
+        Linkedin = driver.find_element(By.CSS_SELECTOR,'#root > nav.sc-dItHI.fhchdd > main > div > button:nth-child(2) > svg')
         Linkedin.screenshot
         Linkedin.click()
         time.sleep(2)
@@ -34,7 +34,7 @@ class TestFooterSocialMedia:
 
     def test_footerSocialMedia_Instagram(self):
         open_home()
-        Instagram = driver.find_element(By.CSS_SELECTOR,'#root > nav.sc-bqGGcD.bhqxOK > main > div > button:nth-child(3) > svg')
+        Instagram = driver.find_element(By.CSS_SELECTOR,'#root > nav.sc-dItHI.fhchdd > main > div > button:nth-child(3) > svg')
         Instagram.screenshot
         Instagram.click()
         time.sleep(2)
@@ -43,7 +43,7 @@ class TestFooterSocialMedia:
         
     def test_footerSocialMedia_Twitter(self):
         open_home()
-        Twitter = driver.find_element(By.CSS_SELECTOR,'#root > nav.sc-bqGGcD.bhqxOK > main > div > button:nth-child(4) > svg')
+        Twitter = driver.find_element(By.CSS_SELECTOR,'#root > nav.sc-dItHI.fhchdd > main > div > button:nth-child(4) > svg')
         Twitter.screenshot
         Twitter.click()
         time.sleep(2)

diff --git a/site/tests/test_login.py b/site/tests/test_login.py
@@ -16,11 +16,10 @@ class TestLogin:
         form_login_certificate_hasTitle('Inicie sua sessão') # Certificar-se de que o formulário é o de login            
         signup_button_exists('Cadastre-se') # Verificar existencia do botão Cadastre-se na página de login     
         Email('admin@admin.com') # Enviando email success
-        Password('12345678') # Enviando password success  
-        
-        
+        Password('12345678') # Enviando password success            
         login_button_submit() # Enviar o formulário de login
         driver.save_screenshot('screen_login_success.png')                
+        logout()  
               
     def test_login_fail_invalid_email(self):
         login() # Entrar na página de login      

diff --git a/utils/utilities.py b/utils/utilities.py
@@ -33,7 +33,12 @@ def btn_home():
 # Entrar na página de login
 def login():
     open_home()          
-    sign_in()    
+    sign_in()  
+
+# Logout
+def logout():
+    element = driver.find_element(By.XPATH, '//*[@id="root"]/nav[1]/main/div[2]/p[2]/a')
+    element.click()      
 
 #certificar-se de que está na página de login
 def signin_page_certificate(signinEndPoint):    
